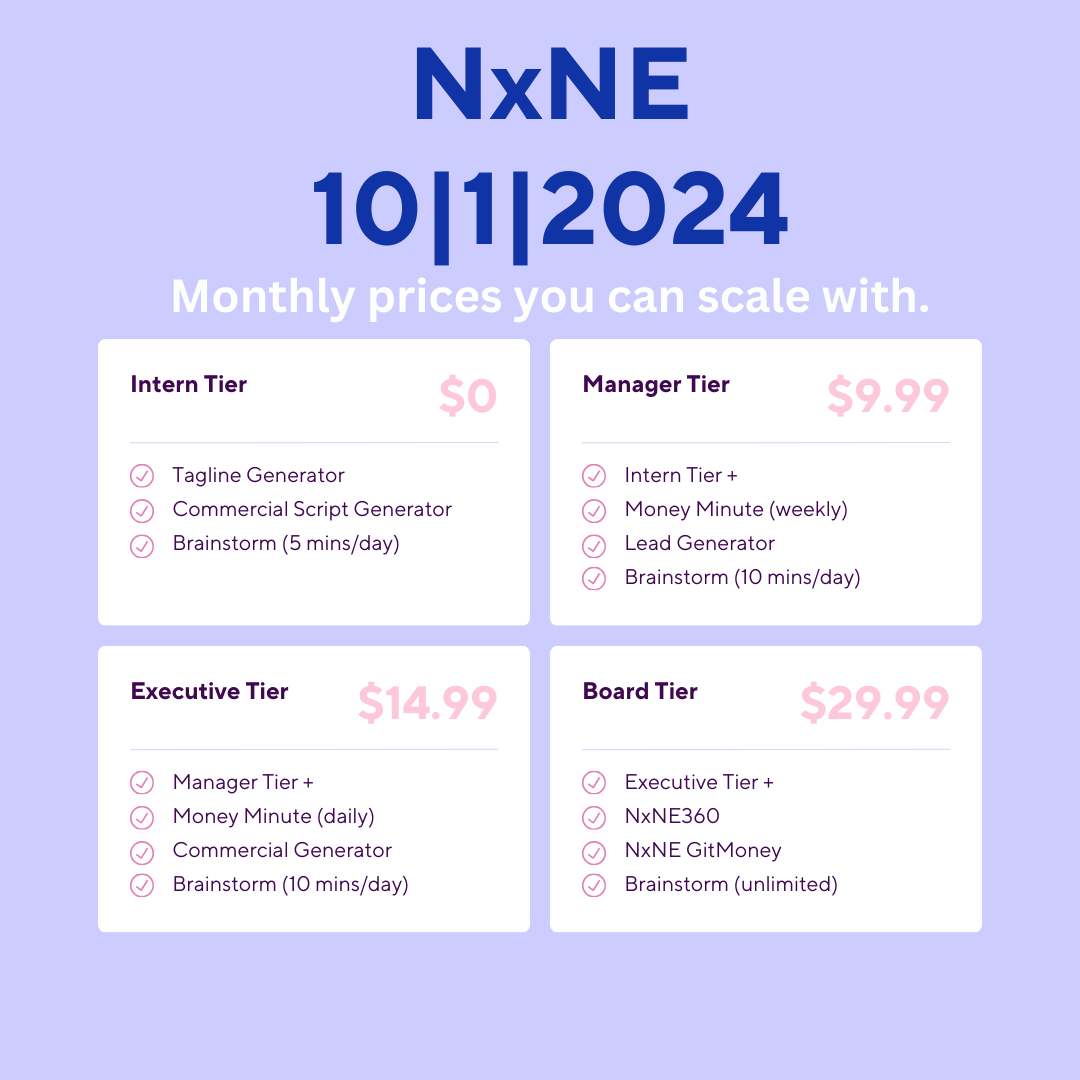
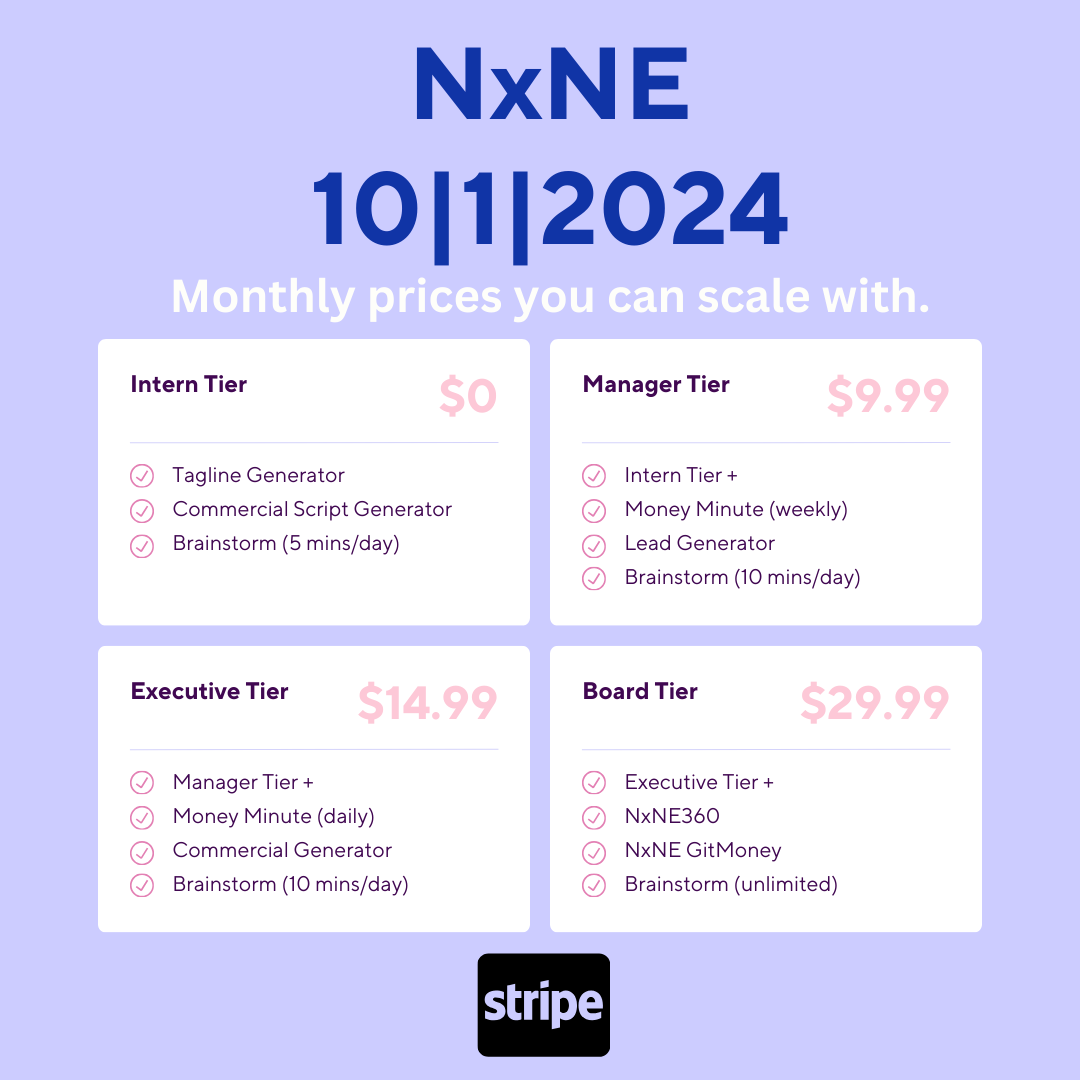
Adding Stripe onto Pricing page

Changed region(s): [[0.4278, 0.8556, 0.5806, 0.9778]]

diff --git a/templates/Pricing.html b/templates/Pricing.html
@@ -47,6 +47,12 @@
             color: #1034a6;
             text-decoration: none;
         }
+        .logo-bottom {
+            position: fixed;
+            bottom: 20px;
+            left: 50%;
+            transform: translateX(-50%);
+        }
     </style>
 </head>
 <body>
@@ -72,6 +78,7 @@
     <div class="content">
         <img src="{{ url_for('static', filename='assets/NxNE_pricing.png') }}" alt="NxNE Pricing">
     </div>
+    <img src="https://assets.brandfetch.io/idW8JhH8ft.png" alt="Stripe Logo" class="logo-bottom">
     <script src="{{ url_for('static', filename='js/jquery.min.js') }}"></script>
     <script src="{{ url_for('static', filename='js/browser.min.js') }}"></script>
     <script src="{{ url_for('static', filename='js/breakpoints.min.js') }}"></script>
